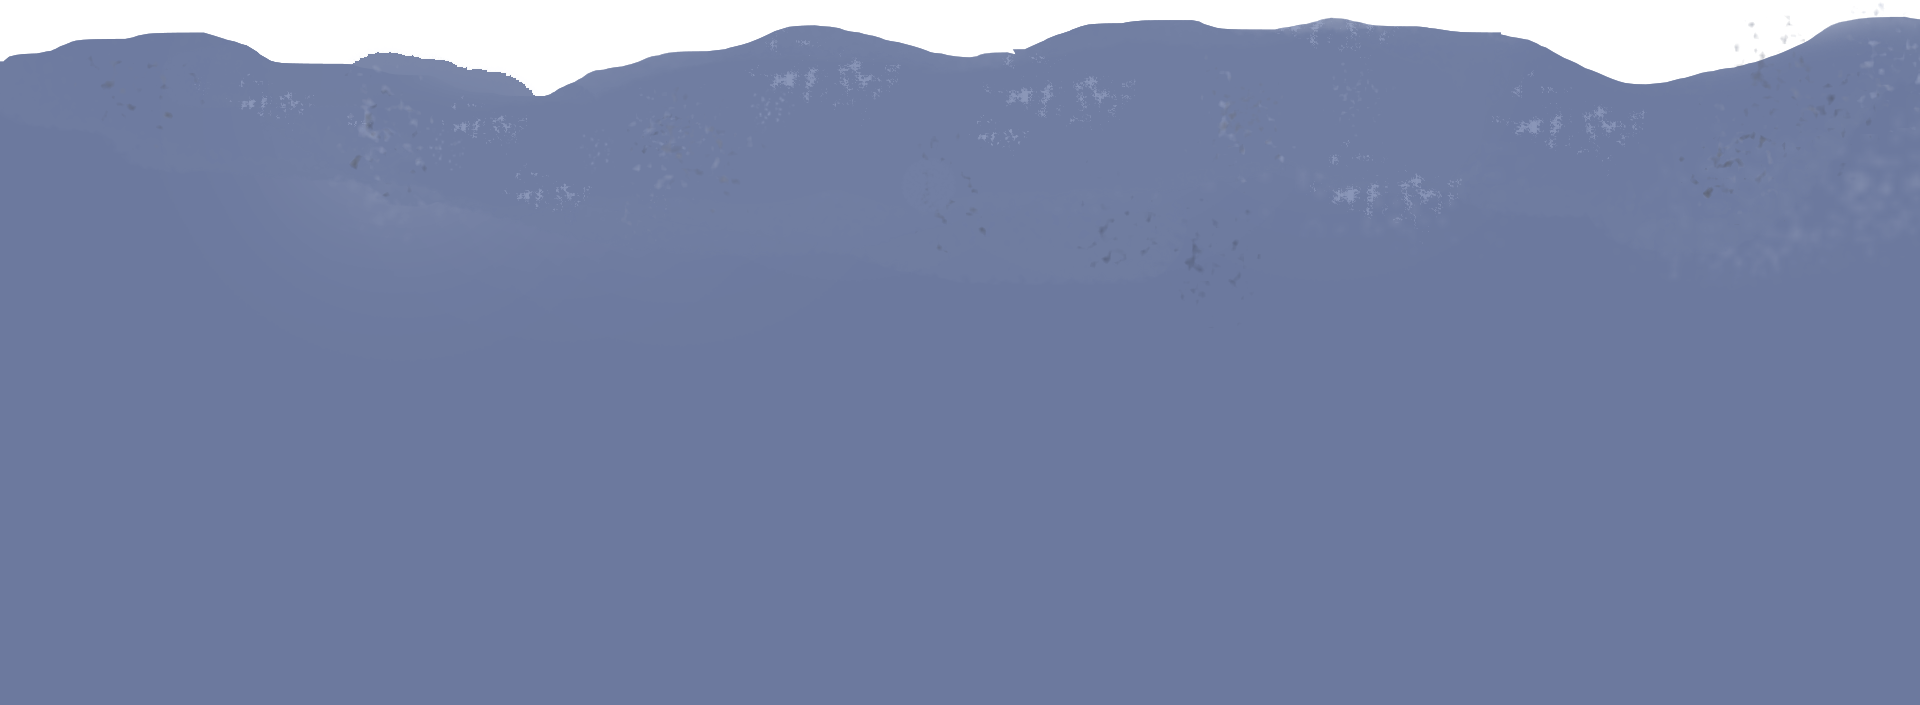
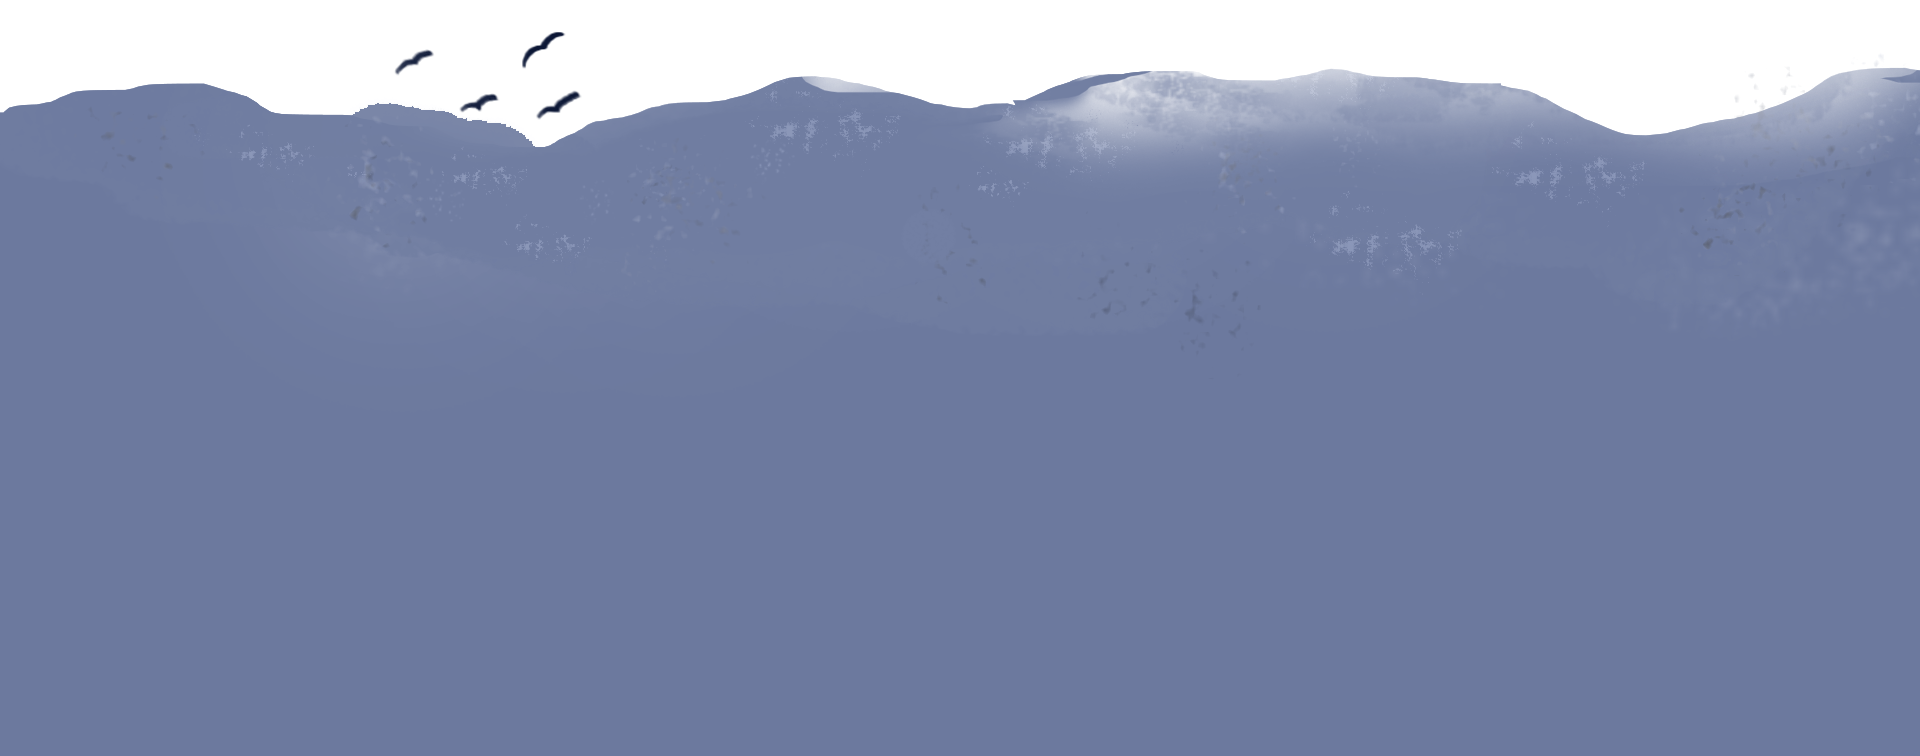
edited slices

Changed region(s): [[0.0, 0.0, 1.0, 0.2184], [0.2812, 0.0312, 0.3125, 0.0624]]

diff --git a/index.html b/index.html
@@ -18,25 +18,19 @@
     <div id="mtn-layer-2" class="mtn-header-layer">
 
     </div>
-    <div id="mtn-layer-3" class="mtn-header-layer">
 
-    </div>
 
     <div id="mtn-layer-4" class="mtn-header-layer">
 
     </div>
-    <div id="mtn-layer-5" class="mtn-header-layer">
 
-    </div>
     <div id="mtn-layer-6" class="mtn-header-layer">
 
     </div>
     <div id="mtn-layer-7" class="mtn-header-layer">
 
     </div>
-    <div id="mtn-layer-8" class="mtn-header-layer" >
 
-    </div>
   </div>
   <div class="main-container">
 
@@ -53,27 +47,28 @@
 
  $(window).scroll(function(){
    var scrolltop = window.pageYOffset;
-   console.log(scrolltop*.2);
-       $('#mtn-layer-0').css({
-        transform: "translate3d(0,"+ -scrolltop+"px,0)"
-      });
-      $('#mtn-layer-1').css({
-       transform: "translate3d(0,"+ -scrolltop*.7 +"px,0)"
-       });
-     $('#mtn-layer-2').css({
-      transform: "translate3d(0,"+ -scrolltop*.6 +"px,0)"
-      });
-    $('#mtn-layer-3').css({
-     transform: "translate3d(0,"+ -scrolltop*.5 +"px,0)"
-     });
-     $('#mtn-layer-4').css({
-      transform: "translate3d(0,"+ -scrolltop*.4 +"px,0)"
+   console.log(scrolltop);
+
+     $('#mtn-layer-0').css({
+      transform: "translate3d(0,"+ -scrolltop+"px,0)"
     });
-    $('#mtn-layer-6').css({
-     transform: "translate3d(0,"+ -scrolltop*.3 +"px,0)"
+    $('#mtn-layer-1').css({
+     transform: "translate3d(0,"+ -scrolltop*.8 +"px,0)"
+     });
+   $('#mtn-layer-2').css({
+    transform: "translate3d(0,"+ -scrolltop*.7 +"px,0)"
+    });
+  $('#mtn-layer-3').css({
+   transform: "translate3d(0,"+ -scrolltop*.6 +"px,0)"
+   });
+   $('#mtn-layer-4').css({
+    transform: "translate3d(0,"+ -scrolltop*.5 +"px,0)"
+  });
+  $('#mtn-layer-6').css({
+   transform: "translate3d(0,"+ -scrolltop*.4 +"px,0)"
    });
    $('#mtn-layer-7').css({
-    transform: "translate3d(0,"+ -scrolltop*.2 +"px,0)"
+    transform: "translate3d(0,"+ -scrolltop*.3 +"px,0)"
   });
 
  });

diff --git a/styles.css b/styles.css
@@ -1,6 +1,6 @@
 .mtn-header-container{
   max-width: 1920px;
-  height:900px;
+  height:1000px;
   width:100%;
   margin:0;
   position: relative;
@@ -24,7 +24,7 @@ body{
    position: fixed;
   max-width: 1920px;
    width:100%;
-   height:900px;
+   height:1000px;
    z-index: 10;
  }
  #mtn-layer-1{
@@ -35,7 +35,7 @@ body{
    position: fixed;
     max-width: 1920px;
    width:100%;
-   height:900px;
+   height:1000px;
    z-index: 9;
  }
  #mtn-layer-2{
@@ -46,7 +46,7 @@ body{
    position: fixed;
       max-width: 1920px;
    width:100%;
-   height:900px;
+   height:1000px;
    z-index: 8;
  }
  #mtn-layer-3{
@@ -55,9 +55,9 @@ body{
    background-position: bottom center;
    background-repeat: no-repeat;
    position: fixed;
-      max-width: 1920px;
+  max-width: 1920px;
    width:100%;
-   height:89px;
+   height:38%;
    z-index: 7;
  }
  #mtn-layer-4{
@@ -66,9 +66,9 @@ body{
    background-position: bottom center;
    background-repeat: no-repeat;
    position: fixed;
-      max-width: 1920px;
+  max-width: 1920px;
    width:100%;
-   height:900px;
+   height:1000px;
    z-index: 6;
  }
  #mtn-layer-5{
@@ -79,7 +79,7 @@ body{
    position: fixed;
       max-width: 1920px;
    width:100%;
-   height:900px;
+   height:1000px;
    z-index: 5;
    left:208px;
  }
@@ -91,7 +91,7 @@ body{
    position: fixed;
       max-width: 1920px;
    width:100%;
-  height:900px;
+  height:1000px;
 
    z-index: 4;
  }
@@ -103,7 +103,7 @@ body{
    position: fixed;
       max-width: 1920px;
    width:100%;
-   height:900px;
+   height:1000px;
 
    z-index: 3;
  }
@@ -115,6 +115,6 @@ body{
    position: fixed;
       max-width: 1920px;
    width:100%;
-   height:900px;
+   height:1000px;
    z-index: 2;
  }
